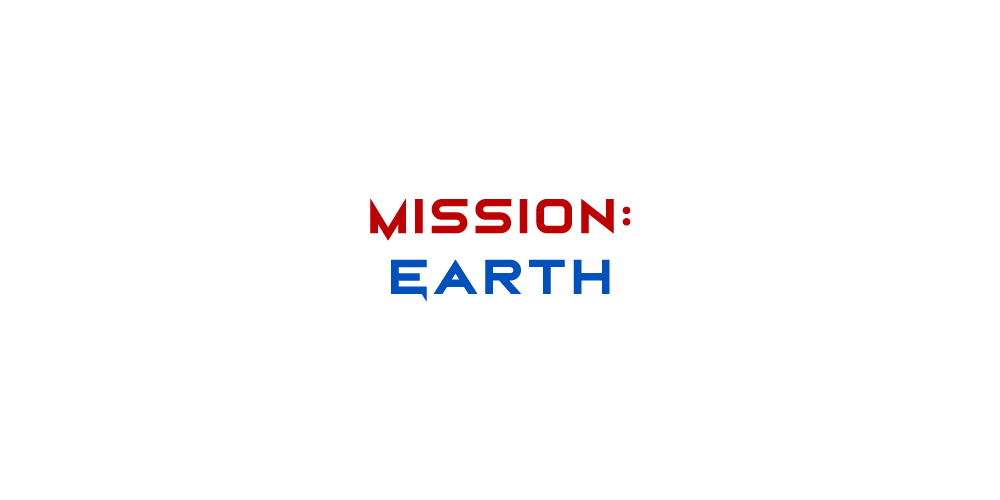
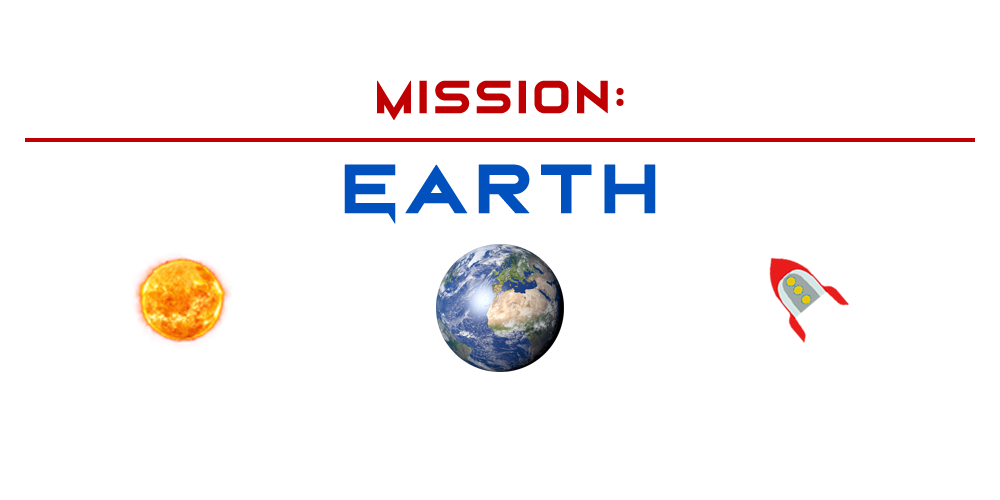
Add planet images.

diff --git a/HomeScreen.cpp b/HomeScreen.cpp
@@ -1,9 +1,21 @@
+#include <algorithm>
+
+#include <SDL_image.h>
+
 #include "Core.h"
 #include "HomeScreen.h"
 #include "Label.h"
 
 void HomeScreen::draw() const
 {
-	Label::setFont("C:\\Windows\\Fonts\\AGENCYR.TTF", 32);
-	Label::draw("Hello, world!", { Core::monitor.w / 2, Core::monitor.h / 2 }, { 0xff, 0xff, 0xff }, { 0.5, 0.5 });
+	SDL_Texture* texture{ IMG_LoadTexture(Core::renderer, "img/title.png") };
+	int w{};
+	int h{};
+	SDL_QueryTexture(texture, NULL, NULL, &w, &h);
+	SDL_FRect rect{ Core::monitor.w * 0.5f, 0 };
+	rect.w = std::clamp(static_cast<float>(w), Core::monitor.w * 0.1f, Core::monitor.w * 0.5f);
+	rect.h = std::clamp(static_cast<float>(h), Core::monitor.h * 0.1f, Core::monitor.h * 0.5f);
+	rect.x -= rect.w / 2;
+	SDL_RenderCopyF(Core::renderer, texture, NULL, &rect);
+	SDL_DestroyTexture(texture);
 }
